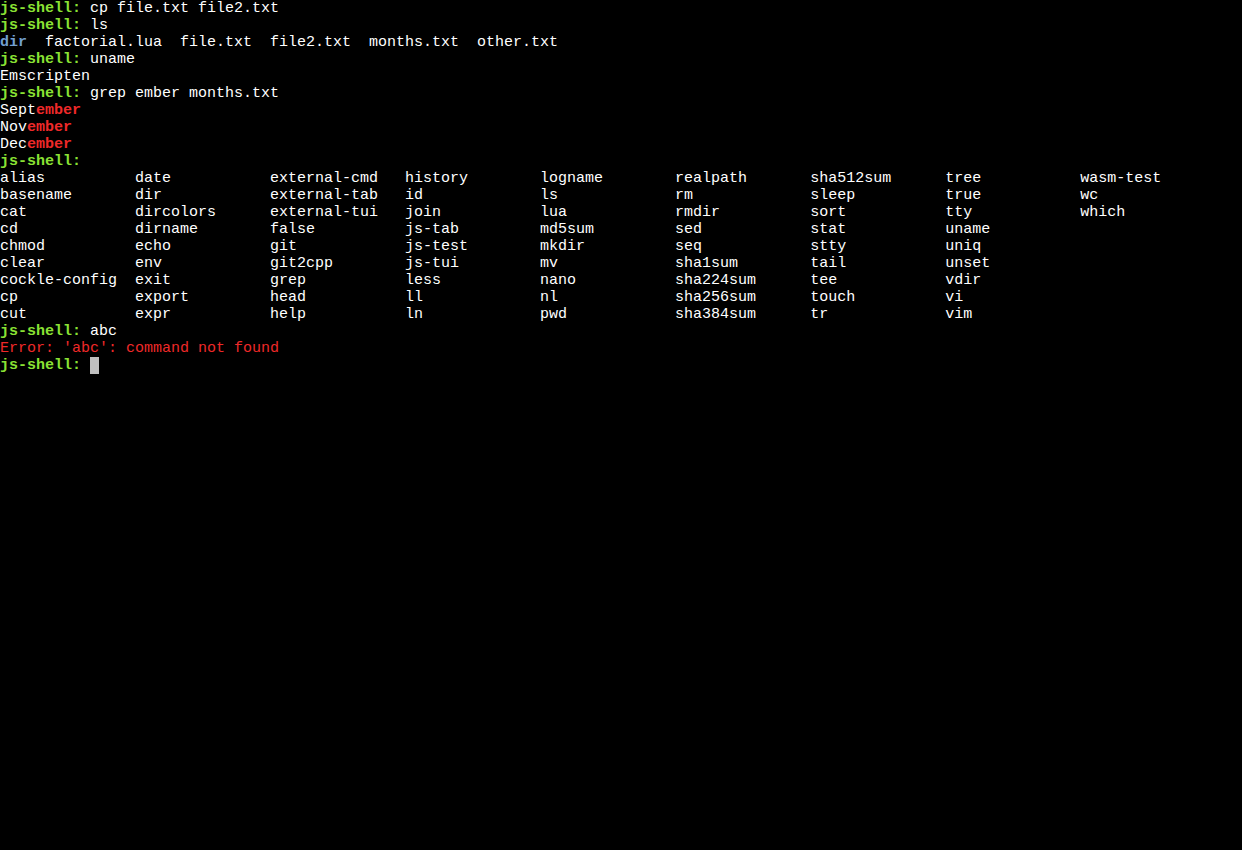
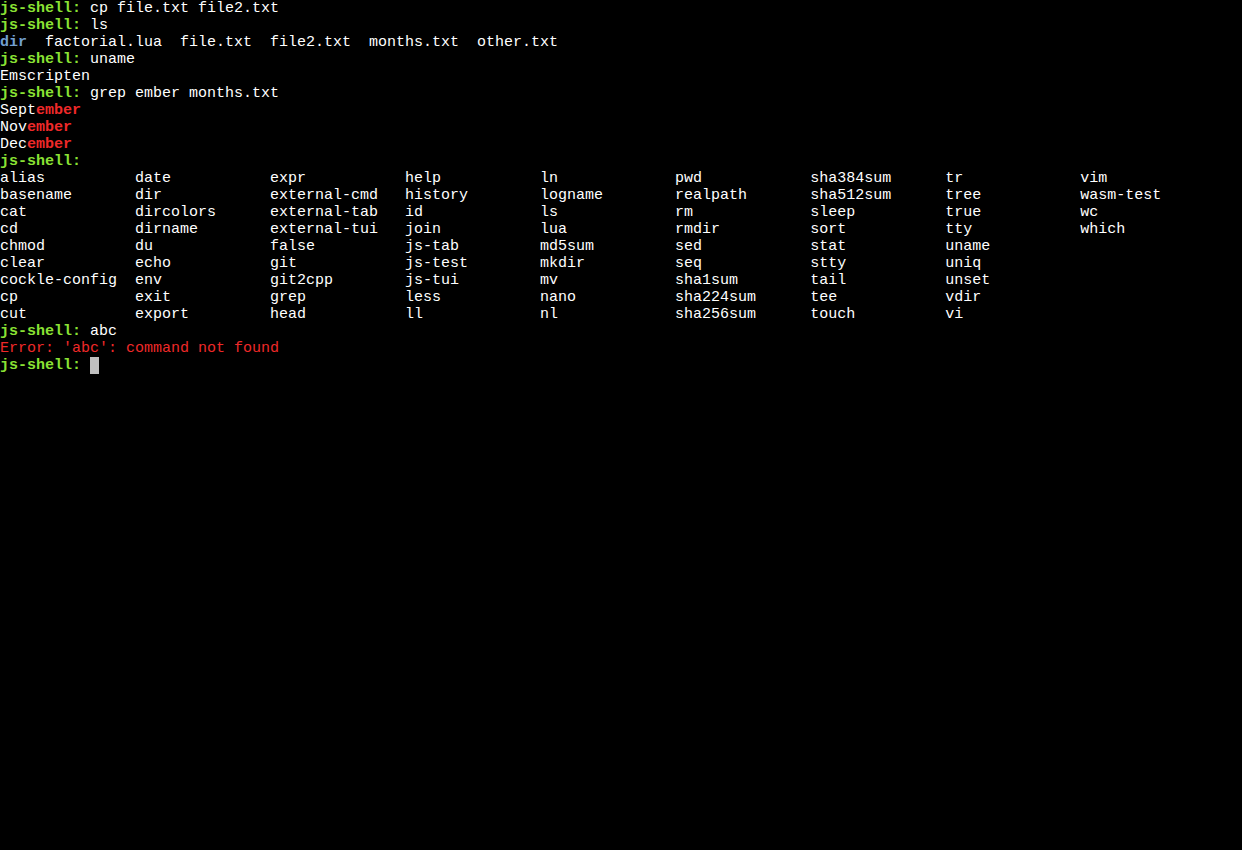
Add du command from coreutils (#315)
* Add du command from coreutils

* Update visual test image

Pull request: Add du command from coreutils
Add `du` command from `coreutils`, it is useful for checking the size of clone git repositories.

diff --git a/test/integration-tests/command/du.test.ts b/test/integration-tests/command/du.test.ts
@@ -1,0 +1,17 @@
+import { expect } from '@playwright/test';
+import { shellLineSimple, test } from '../utils';
+
+test.describe('du command', () => {
+  test('should write version', async ({ page }) => {
+    const output = await shellLineSimple(page, 'du --version');
+    const lines = output.split('\r\n');
+    expect(lines[1]).toMatch(/^du \(GNU coreutils\) \d+\.\d+$/);
+  });
+
+  test('should write to stdout', async ({ page }) => {
+    const output = await shellLineSimple(page, 'du .');
+    const lines = output.split('\r\n');
+    expect(lines[1]).toMatch(/^1\s+\.\/dirA$/);
+    expect(lines[2]).toMatch(/^2\s+\.$/);
+  });
+});